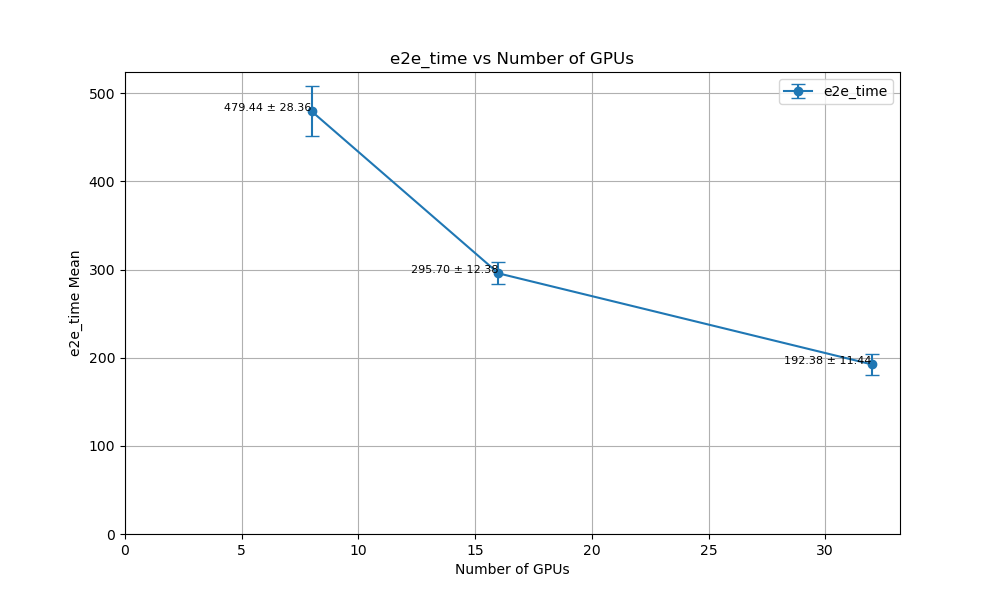
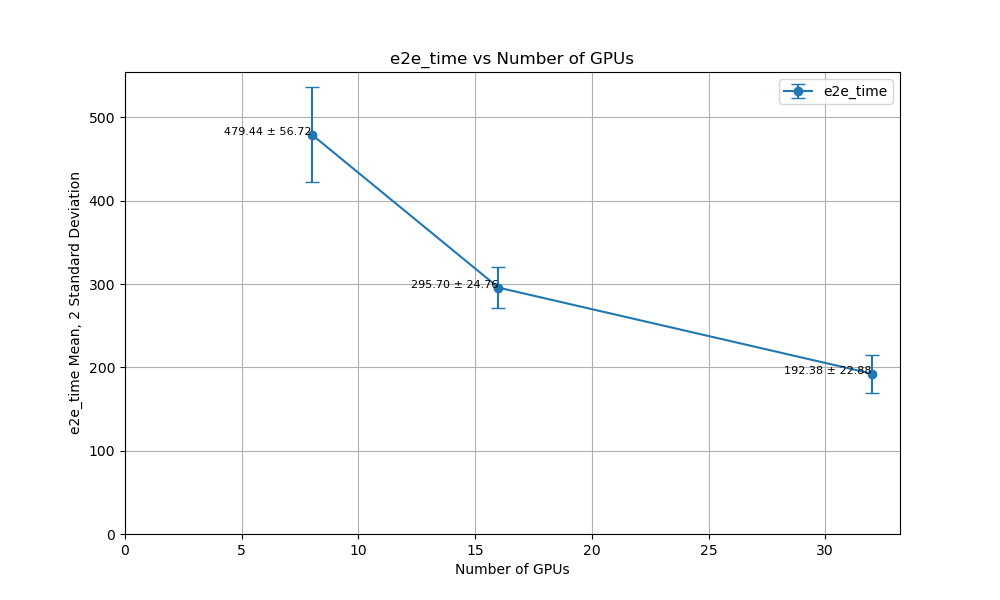
Add s_std for plotting results

Changed region(s): [[0.062, 0.15, 0.899, 0.72], [0.093, 0.72, 0.124, 0.78], [0.093, 0.15, 0.124, 0.21]]

diff --git a/Lambda/tools/plot_results.py b/Lambda/tools/plot_results.py
@@ -10,17 +10,17 @@ def extract_gpus(folder_name):
         return a * b
     return None
 
-def plot_metric(df, metric_mean, metric_std, metric_name, output_path):
+def plot_metric(df, s_std, metric_mean, metric_std, metric_name, output_path):
     df['GPUs'] = df['folder'].apply(extract_gpus)
     
     plt.figure(figsize=(10, 6))
-    plt.errorbar(df['GPUs'], df[metric_mean], yerr=df[metric_std], fmt='o-', capsize=5, label=metric_name)
+    plt.errorbar(df['GPUs'], df[metric_mean], yerr=df[metric_std] * s_std, fmt='o-', capsize=5, label=metric_name)
     
     for x, y, yerr in zip(df['GPUs'], df[metric_mean], df[metric_std]):
-        plt.text(x, y, f'{y:.2f} ± {yerr:.2f}', fontsize=8, ha='right')
+        plt.text(x, y, f'{y:.2f} ± {yerr*s_std:.2f}', fontsize=8, ha='right')
     
     plt.xlabel('Number of GPUs')
-    plt.ylabel(f'{metric_name} Mean')
+    plt.ylabel(f'{metric_name} Mean, {s_std} Standard Deviation')
     plt.title(f'{metric_name} vs Number of GPUs')
     plt.grid(True)
     plt.legend()
@@ -33,9 +33,9 @@ def plot_metric(df, metric_mean, metric_std, metric_name, output_path):
 if __name__ == "__main__":
     csv_file = "../benchmarks/bert/implementations/pytorch/results/output.csv"
     output_path = "../benchmarks/bert/implementations/pytorch/results"
-    
+    s_std = 2
     df = pd.read_csv(csv_file)
     
-    plot_metric(df, 'e2e_time_mean', 'e2e_time_std', 'e2e_time', output_path)
-    plot_metric(df, 'raw_train_time_mean', 'raw_train_time_std', 'raw_train_time', output_path)
-    plot_metric(df, 'training_sequences_per_second_mean', 'training_sequences_per_second_std', 'training_sequences_per_second', output_path)
+    plot_metric(df, s_std, 'e2e_time_mean', 'e2e_time_std', 'e2e_time', output_path)
+    plot_metric(df, s_std, 'raw_train_time_mean', 'raw_train_time_std', 'raw_train_time', output_path)
+    plot_metric(df, s_std, 'training_sequences_per_second_mean', 'training_sequences_per_second_std', 'training_sequences_per_second', output_path)
